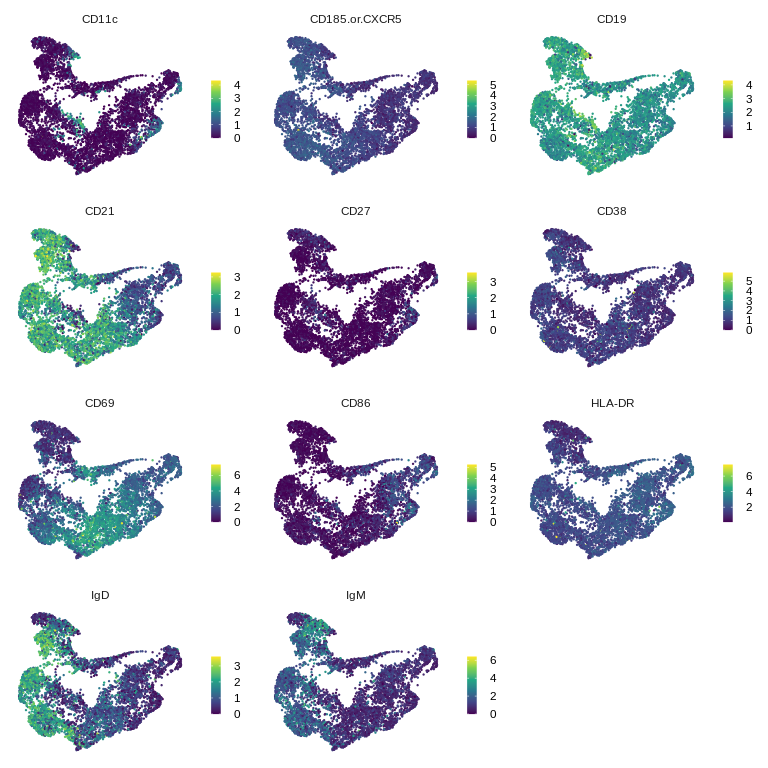
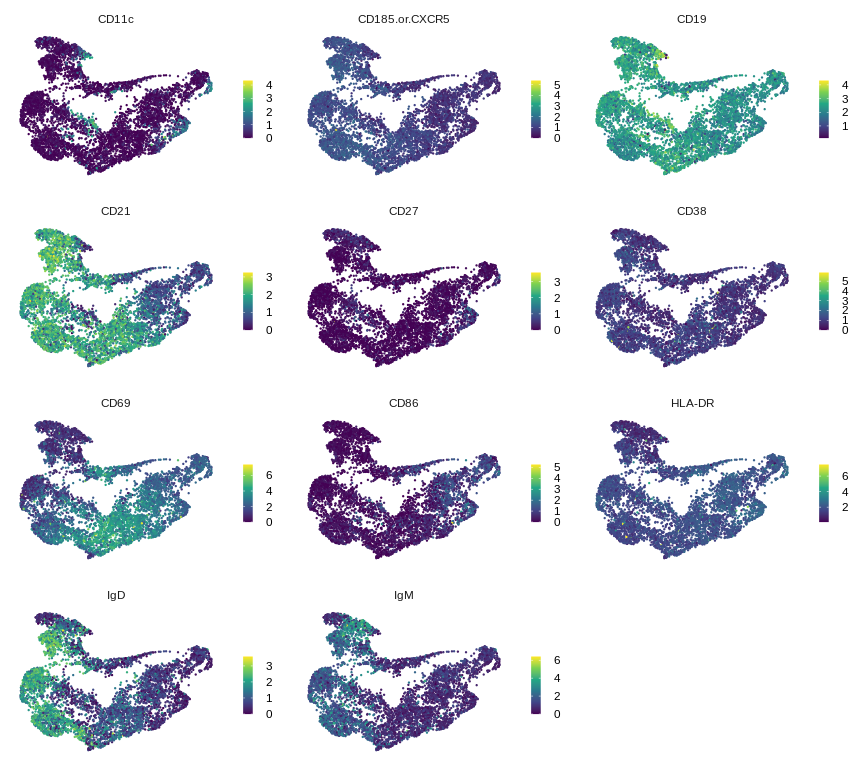
include SLE genes

diff --git a/bcell_scrna/README.md b/bcell_scrna/README.md
@@ -183,7 +183,7 @@ str(bcells)
     #   ..@ commands    :List of 5
     #   .. ..$ NormalizeData.RNA       :Formal class 'SeuratCommand' [package "SeuratObject"] with 5 slots
     #   .. .. .. ..@ name       : chr "NormalizeData.RNA"
-    #   .. .. .. ..@ time.stamp : POSIXct[1:1], format: "2022-03-13 12:28:55"
+    #   .. .. .. ..@ time.stamp : POSIXct[1:1], format: "2022-03-14 17:24:28"
     #   .. .. .. ..@ assay.used : chr "RNA"
     #   .. .. .. ..@ call.string: chr "NormalizeData(bcells, normalization.method = \"LogNormalize\")"
     #   .. .. .. ..@ params     :List of 5
@@ -194,7 +194,7 @@ str(bcells)
     #   .. .. .. .. ..$ verbose             : logi TRUE
     #   .. ..$ FindVariableFeatures.RNA:Formal class 'SeuratCommand' [package "SeuratObject"] with 5 slots
     #   .. .. .. ..@ name       : chr "FindVariableFeatures.RNA"
-    #   .. .. .. ..@ time.stamp : POSIXct[1:1], format: "2022-03-13 12:29:05"
+    #   .. .. .. ..@ time.stamp : POSIXct[1:1], format: "2022-03-14 17:24:33"
     #   .. .. .. ..@ assay.used : chr "RNA"
     #   .. .. .. ..@ call.string: chr "FindVariableFeatures(bcells, selection.method = \"mean.var.plot\")"
     #   .. .. .. ..@ params     :List of 12
@@ -212,7 +212,7 @@ str(bcells)
     #   .. .. .. .. ..$ verbose            : logi TRUE
     #   .. ..$ ScaleData.RNA           :Formal class 'SeuratCommand' [package "SeuratObject"] with 5 slots
     #   .. .. .. ..@ name       : chr "ScaleData.RNA"
-    #   .. .. .. ..@ time.stamp : POSIXct[1:1], format: "2022-03-13 12:29:07"
+    #   .. .. .. ..@ time.stamp : POSIXct[1:1], format: "2022-03-14 17:24:35"
     #   .. .. .. ..@ assay.used : chr "RNA"
     #   .. .. .. ..@ call.string: chr "ScaleData(bcells, features = VariableFeatures(bcells))"
     #   .. .. .. ..@ params     :List of 10
@@ -228,7 +228,7 @@ str(bcells)
     #   .. .. .. .. ..$ verbose           : logi TRUE
     #   .. ..$ NormalizeData.HTO       :Formal class 'SeuratCommand' [package "SeuratObject"] with 5 slots
     #   .. .. .. ..@ name       : chr "NormalizeData.HTO"
-    #   .. .. .. ..@ time.stamp : POSIXct[1:1], format: "2022-03-13 12:29:08"
+    #   .. .. .. ..@ time.stamp : POSIXct[1:1], format: "2022-03-14 17:24:35"
     #   .. .. .. ..@ assay.used : chr "HTO"
     #   .. .. .. ..@ call.string: chr "NormalizeData(bcells, assay = \"HTO\", normalization.method = \"CLR\")"
     #   .. .. .. ..@ params     :List of 5
@@ -239,7 +239,7 @@ str(bcells)
     #   .. .. .. .. ..$ verbose             : logi TRUE
     #   .. ..$ NormalizeData.ADT       :Formal class 'SeuratCommand' [package "SeuratObject"] with 5 slots
     #   .. .. .. ..@ name       : chr "NormalizeData.ADT"
-    #   .. .. .. ..@ time.stamp : POSIXct[1:1], format: "2022-03-13 12:29:09"
+    #   .. .. .. ..@ time.stamp : POSIXct[1:1], format: "2022-03-14 17:24:36"
     #   .. .. .. ..@ assay.used : chr "ADT"
     #   .. .. .. ..@ call.string: chr [1:2] "NormalizeData(bcells, assay = \"ADT\", normalization.method = \"CLR\", " "    margin = 2)"
     #   .. .. .. ..@ params     :List of 5
@@ -424,7 +424,7 @@ table(bcells_singlet@meta.data$HTO_maxID)[stims]
     # Res00 Res24 IgG24 IgG72 RSQ24 RSQ72 
     #   846   826  1599  1650  1060   195
 
-# PCA
+## PCA
 
 ``` r
 bcells_singlet <- 
@@ -468,7 +468,7 @@ bcells_singlet <- FindClusters(bcells_singlet, resolution = 0.25)
     # Running Louvain algorithm...
     # Maximum modularity in 10 random starts: 0.9158
     # Number of communities: 7
-    # Elapsed time: 1 seconds
+    # Elapsed time: 0 seconds
 
 ``` r
 bcells_singlet <- RunUMAP(bcells_singlet, dims = 1:15)
@@ -541,7 +541,7 @@ plot_grid(mki_umap, mt_umap, ncol = 1)
 
 ![](README_files/figure-gfm/unnamed-chunk-13-1.png)<!-- -->
 
-# B cell genes (RNA)
+## B cell genes (RNA)
 
 ``` r
 bcell_genes <- 
@@ -584,7 +584,7 @@ plot_grid(plotlist = bcell_genes_plot_list, ncol = 3)
 
 ![](README_files/figure-gfm/unnamed-chunk-14-1.png)<!-- -->
 
-# B cell genes (Protein)
+## B cell genes (Protein)
 
 ``` r
 bcell_prots <- 
@@ -619,6 +619,60 @@ plot_grid(plotlist = bcell_prots_plot_list, ncol = 3)
 ```
 
 ![](README_files/figure-gfm/unnamed-chunk-15-1.png)<!-- -->
+
+## Lupus genes
+
+``` r
+library(rvest)
+
+sle_genes <- 
+    "https://www.nature.com/articles/ng.3434/tables/2" %>%
+    read_html() %>%
+    html_node("table") %>%
+    html_table(header = TRUE, fill = TRUE) %>%
+    select(gene = `Likely causal genec`) %>%
+    slice(-1) %>%
+    separate_rows(gene, sep = ",") %>%
+    mutate(gene = trimws(gene)) %>%
+    filter(gene != "") %>%
+    pull(gene)
+
+sle_genes_df <- features_df %>%
+    filter(phenotype == "Gene Expression", 
+           gene_name %in% sle_genes) %>%
+    select(gene_id, gene_name)
+
+sle_genes_quant <- bcells_singlet@assays$RNA@data %>% 
+    .[sle_genes_df$gene_id, ] %>%
+    as.data.frame() %>%
+    rownames_to_column("gene_id") %>%
+    as_tibble() %>%
+    left_join(sle_genes_df, by = "gene_id") %>%
+    pivot_longer(-c("gene_id", "gene_name"), 
+                 names_to = "barcode", values_to = "gene_exp") %>%
+    group_by(gene_id) %>%
+    filter(mean(gene_exp > 0) > .01) %>%
+    ungroup()
+
+sle_genes_plot_list <- umap_df %>%
+    select(barcode, UMAP_1, UMAP_2) %>%
+    left_join(sle_genes_quant, by = "barcode") %>%
+    group_split(gene_id) %>%
+    map(~ggplot(data = ., aes(UMAP_1, UMAP_2, color = gene_exp)) +
+            geom_point(size = .2) +
+            scale_color_viridis_c(labels = function(x) str_pad(x, 3),
+                                  guide = guide_colorbar(barwidth = .5)) +
+            facet_wrap(~gene_name) +
+            theme_minimal() +
+            theme(panel.grid = element_blank(),
+                  axis.title = element_blank(),
+                  axis.text = element_blank()) +
+            labs(color = NULL))
+
+plot_grid(plotlist = sle_genes_plot_list, ncol = 4)
+```
+
+![](README_files/figure-gfm/unnamed-chunk-16-1.png)<!-- -->
 
 ``` r
 bcells_markers <- 
